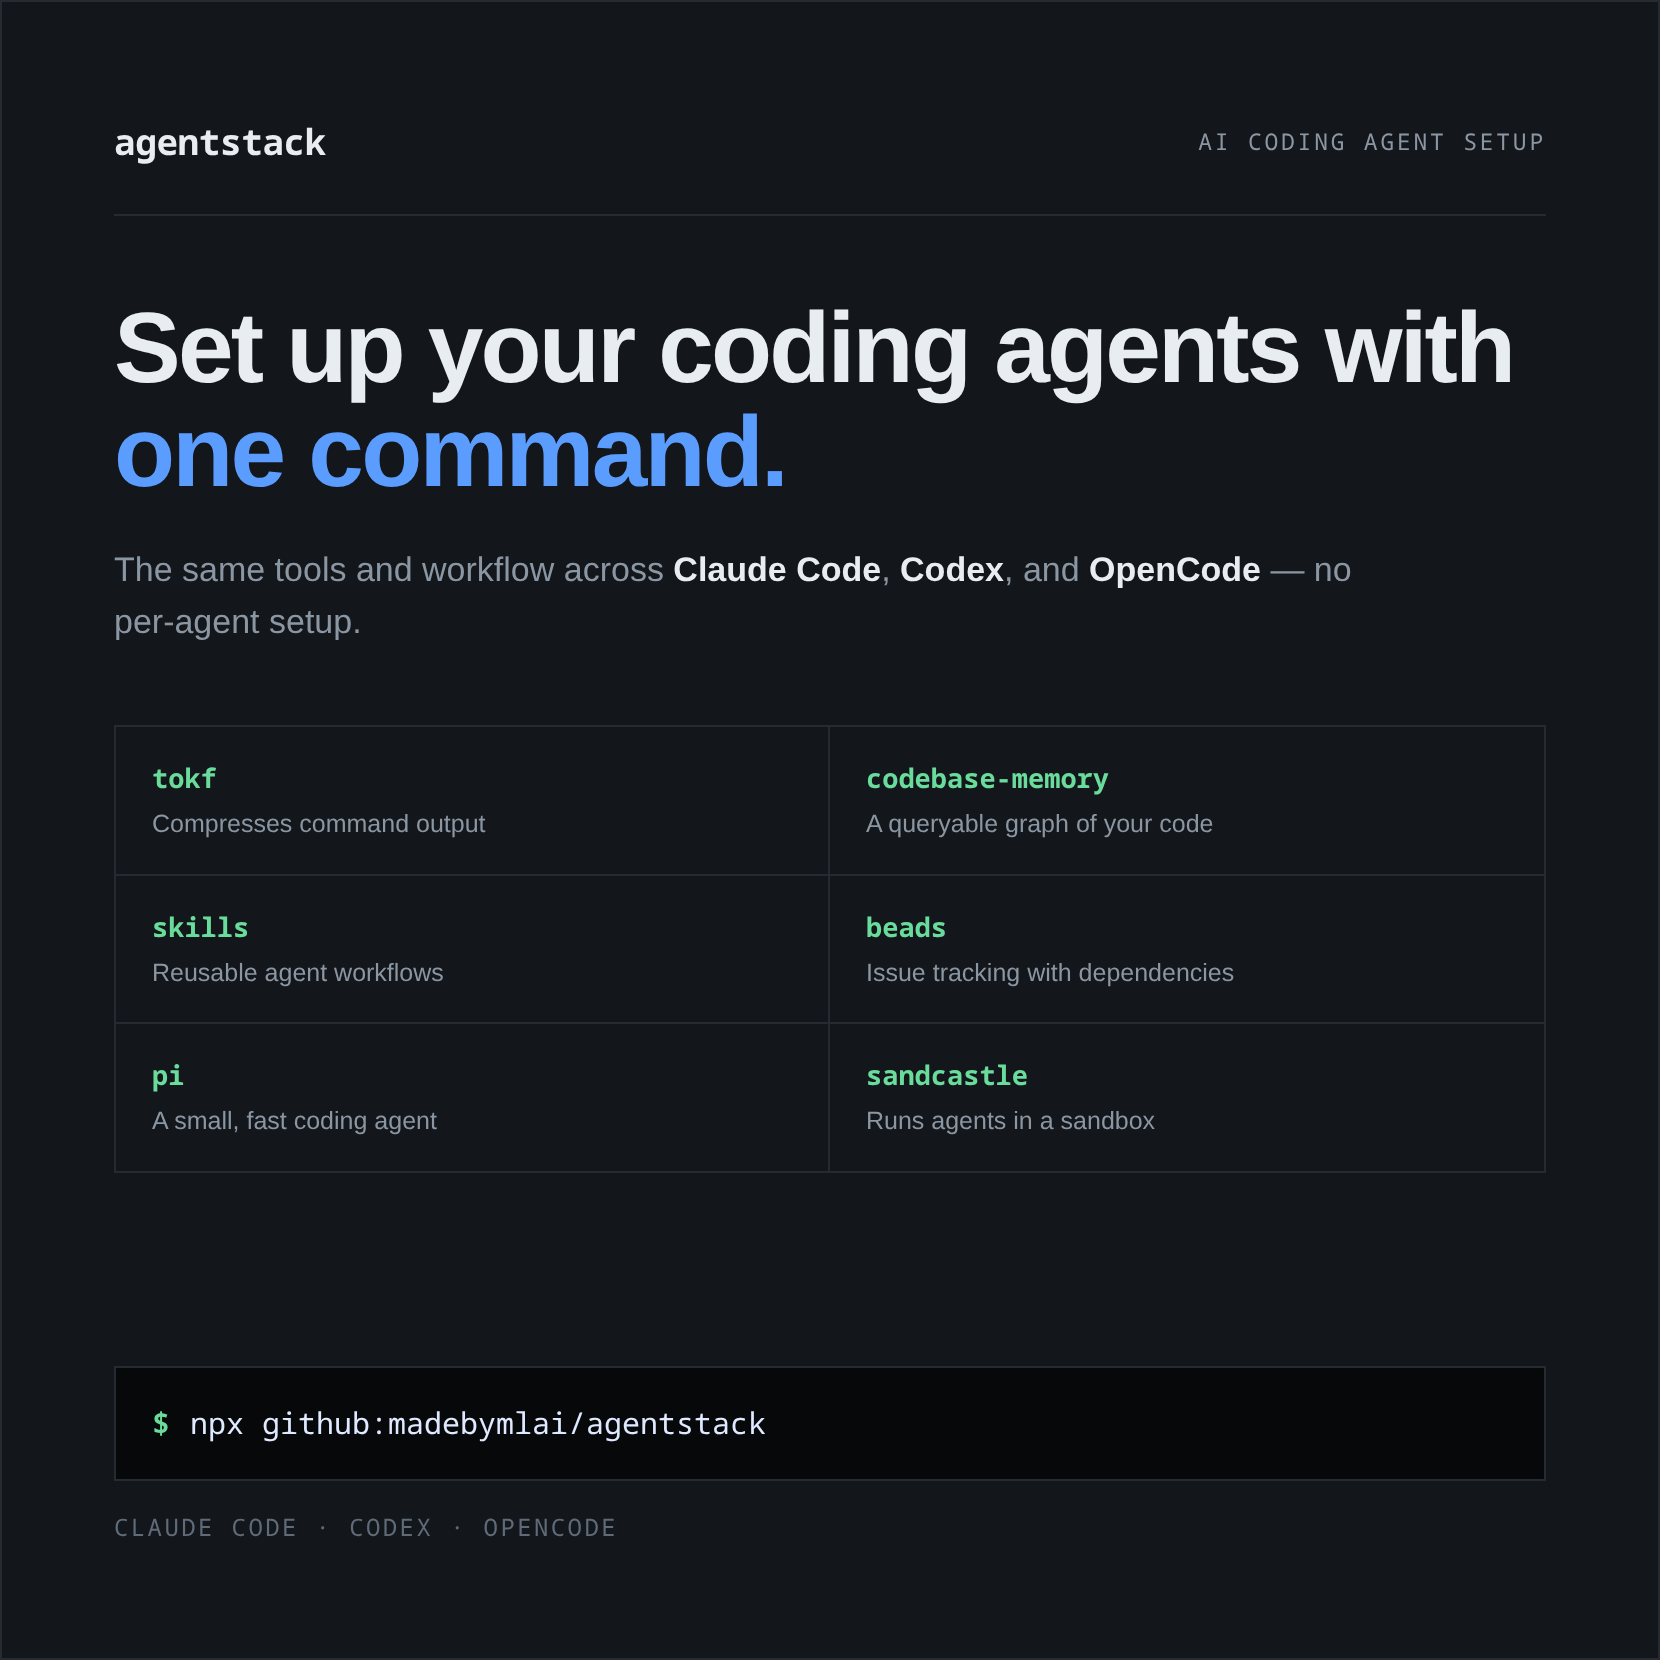
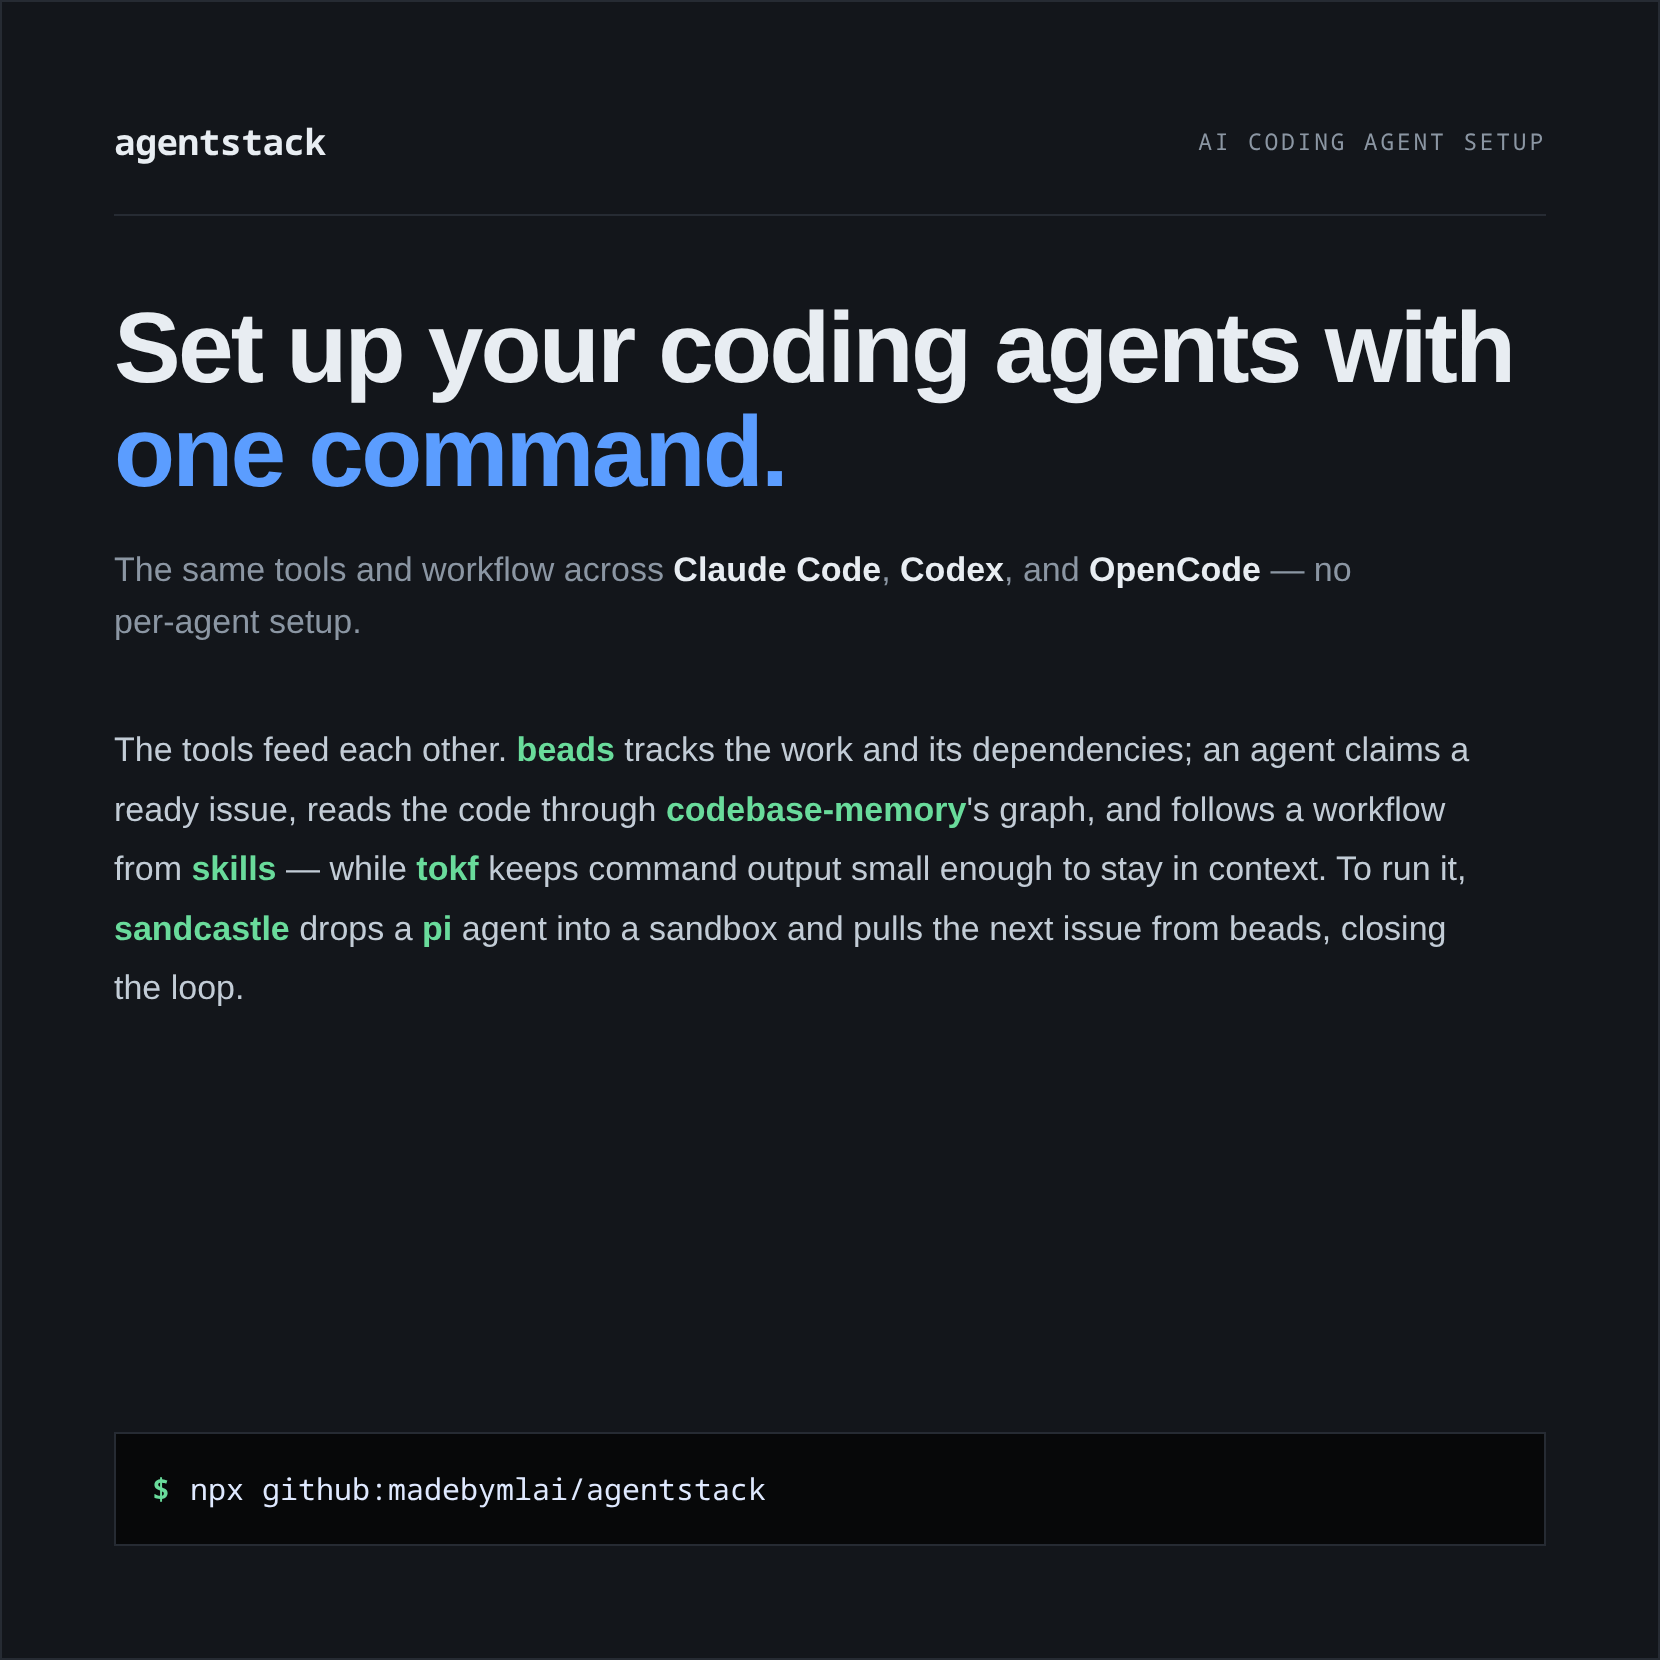
Move tool prose into hero; copy button on live CTA only
Hero now carries the prose on how the tools interact and ends with the bare install command. Remove the agents line under it. Add a GitHub-style click-to-copy button to the live page Get started command; the README image is static so no copy button is baked into the PNG.

diff --git a/docs/agent-stack-flow.html b/docs/agent-stack-flow.html
@@ -27,9 +27,18 @@
   /* command / CTA */
   .cmd{font-family:var(--mono); font-size:14.5px; background:#070809;
        border:1px solid var(--border); padding:15px 18px; color:#dfe9ff;
-       display:flex; align-items:center; gap:10px; overflow-x:auto}
+       display:flex; align-items:center; gap:10px; cursor:pointer}
   .cmd::before{content:"$"; color:var(--accent2); font-weight:700}
-  .cmd .muted{color:#5f6b78}
+  .cmd-txt{white-space:nowrap; overflow:hidden; text-overflow:ellipsis}
+  /* copy button — GitHub-style */
+  .copy-btn{margin-left:auto; flex:0 0 auto; display:inline-flex; align-items:center;
+            justify-content:center; width:30px; height:30px; color:var(--muted);
+            border:1px solid var(--border); background:transparent}
+  .copy-btn svg{display:block}
+  .cmd:hover .copy-btn{color:var(--text); border-color:#3a414c}
+  .copy-btn .ico-check{display:none; color:var(--accent2)}
+  .copied .copy-btn .ico-copy{display:none}
+  .copied .copy-btn .ico-check{display:block}
 
   /* prose */
   .prose{color:#c2ccd6; font-size:16px; line-height:1.75; max-width:680px; margin:0 0 18px}
@@ -72,20 +81,13 @@
   .hs-head h1 .ac{color:var(--accent)}
   .hs-head p{color:var(--muted); font-size:17px; margin:20px 0 0; max-width:620px}
   .hs-head p b{color:var(--text); font-weight:600}
-  .hs-tools{display:grid; grid-template-columns:1fr 1fr; gap:0; margin:38px 0 0;
-            border:1px solid var(--border)}
-  .hs-tool{padding:15px 18px; border-right:1px solid var(--border); border-bottom:1px solid var(--border)}
-  .hs-tool:nth-child(2n){border-right:none}
-  .hs-tool:nth-last-child(-n+2){border-bottom:none}
-  .hs-tool .n{font-family:var(--mono); font-size:13.5px; font-weight:700; color:var(--accent2)}
-  .hs-tool .r{color:var(--muted); font-size:12.5px; margin-top:3px}
+  .hs-prose{color:#c2ccd6; font-size:17px; line-height:1.75; margin:36px 0 0; max-width:690px}
+  .hs-prose strong{color:var(--accent2); font-weight:600}
   .hs-cta{margin-top:auto}
   .hs-cmd{font-family:var(--mono); font-size:15px; background:#070809;
           border:1px solid var(--border); padding:16px 18px; color:#dfe9ff;
           display:flex; align-items:center; gap:10px}
   .hs-cmd::before{content:"$"; color:var(--accent2); font-weight:700}
-  .hs-foot{color:#5f6b78; font-family:var(--mono); font-size:12px; margin:14px 0 0;
-           text-transform:uppercase; letter-spacing:.1em}
 </style>
 </head>
 <body>
@@ -104,33 +106,17 @@
          <b>OpenCode</b> — no per-agent setup.</p>
     </div>
 
-    <div class="hs-tools">
-      <div class="hs-tool"><div class="n">tokf</div><div class="r">Compresses command output</div></div>
-      <div class="hs-tool"><div class="n">codebase-memory</div><div class="r">A queryable graph of your code</div></div>
-      <div class="hs-tool"><div class="n">skills</div><div class="r">Reusable agent workflows</div></div>
-      <div class="hs-tool"><div class="n">beads</div><div class="r">Issue tracking with dependencies</div></div>
-      <div class="hs-tool"><div class="n">pi</div><div class="r">A small, fast coding agent</div></div>
-      <div class="hs-tool"><div class="n">sandcastle</div><div class="r">Runs agents in a sandbox</div></div>
-    </div>
+    <p class="hs-prose">The tools feed each other. <strong>beads</strong> tracks the work and its
+      dependencies; an agent claims a ready issue, reads the code through
+      <strong>codebase-memory</strong>'s graph, and follows a workflow from <strong>skills</strong> —
+      while <strong>tokf</strong> keeps command output small enough to stay in context. To run it,
+      <strong>sandcastle</strong> drops a <strong>pi</strong> agent into a sandbox and pulls the next
+      issue from beads, closing the loop.</p>
 
     <div class="hs-cta">
       <div class="hs-cmd">npx github:madebymlai/agentstack</div>
-      <p class="hs-foot">Claude Code · Codex · OpenCode</p>
     </div>
   </section>
-
-  <!-- =================== HOW THE TOOLS WORK TOGETHER =================== -->
-  <h2>How the tools work together</h2>
-  <p class="prose">The six tools aren't separate installs — they feed each other.
-    <strong>beads</strong> holds the work: every ready issue, its dependencies, and what to pick up
-    next. An agent claims one, then <strong>codebase-memory</strong> hands it a queryable graph of the
-    code to plan against, and <strong>mattpocock/skills</strong> gives it a proven workflow to follow.
-    <strong>tokf</strong> compresses the command output it reads back along the way, so a long session
-    stays inside the context window.</p>
-  <p class="prose">When it is time to run code, <strong>sandcastle</strong> launches <strong>pi</strong>
-    in a Docker, Podman, or Vercel sandbox and pulls the next ready issue straight from beads —
-    closing the loop where it started. Because the same tools and rules are wired into each agent, the
-    workflow is identical whether you run Claude Code, Codex, or OpenCode.</p>
 
   <!-- =================== SETUP =================== -->
   <h2>Setup, in three steps</h2>
@@ -170,7 +156,15 @@
 
   <!-- =================== CTA =================== -->
   <h2>Get started</h2>
-  <div class="cmd">npx github:madebymlai/agentstack</div>
+  <div class="cmd" data-cmd="npx github:madebymlai/agentstack" role="button" tabindex="0"
+       aria-label="Copy install command" onclick="copyCmd(this)"
+       onkeydown="if(event.key==='Enter'||event.key===' '){event.preventDefault();copyCmd(this)}">
+    <span class="cmd-txt">npx github:madebymlai/agentstack</span>
+    <span class="copy-btn">
+      <svg class="ico-copy" viewBox="0 0 16 16" width="16" height="16" fill="currentColor" aria-hidden="true"><path d="M0 6.75C0 5.784.784 5 1.75 5h1.5a.75.75 0 0 1 0 1.5h-1.5a.25.25 0 0 0-.25.25v7.5c0 .138.112.25.25.25h7.5a.25.25 0 0 0 .25-.25v-1.5a.75.75 0 0 1 1.5 0v1.5A1.75 1.75 0 0 1 9.25 16h-7.5A1.75 1.75 0 0 1 0 14.25Z"></path><path d="M5 1.75C5 .784 5.784 0 6.75 0h7.5C15.216 0 16 .784 16 1.75v7.5A1.75 1.75 0 0 1 14.25 11h-7.5A1.75 1.75 0 0 1 5 9.25Zm1.75-.25a.25.25 0 0 0-.25.25v7.5c0 .138.112.25.25.25h7.5a.25.25 0 0 0 .25-.25v-7.5a.25.25 0 0 0-.25-.25Z"></path></svg>
+      <svg class="ico-check" viewBox="0 0 16 16" width="16" height="16" fill="currentColor" aria-hidden="true"><path d="M13.78 4.22a.75.75 0 0 1 0 1.06l-7.25 7.25a.75.75 0 0 1-1.06 0L2.22 9.28a.751.751 0 0 1 .018-1.042.751.751 0 0 1 1.042-.018L6 10.94l6.72-6.72a.75.75 0 0 1 1.06 0Z"></path></svg>
+    </span>
+  </div>
   <p class="works">Works with <b>Claude Code</b>, <b>Codex</b>, and <b>OpenCode</b>.</p>
 
   <footer>
@@ -178,5 +172,25 @@
   </footer>
 
 </div>
+<script>
+  function copyCmd(el){
+    var text = el.getAttribute('data-cmd') || '';
+    var done = function(){
+      el.classList.add('copied');
+      clearTimeout(el._t);
+      el._t = setTimeout(function(){ el.classList.remove('copied'); }, 1600);
+    };
+    if(navigator.clipboard && navigator.clipboard.writeText){
+      navigator.clipboard.writeText(text).then(done, function(){ fallbackCopy(text); done(); });
+    } else { fallbackCopy(text); done(); }
+  }
+  function fallbackCopy(text){
+    var ta = document.createElement('textarea');
+    ta.value = text; ta.style.position = 'fixed'; ta.style.opacity = '0';
+    document.body.appendChild(ta); ta.focus(); ta.select();
+    try { document.execCommand('copy'); } catch(e) {}
+    document.body.removeChild(ta);
+  }
+</script>
 </body>
 </html>
